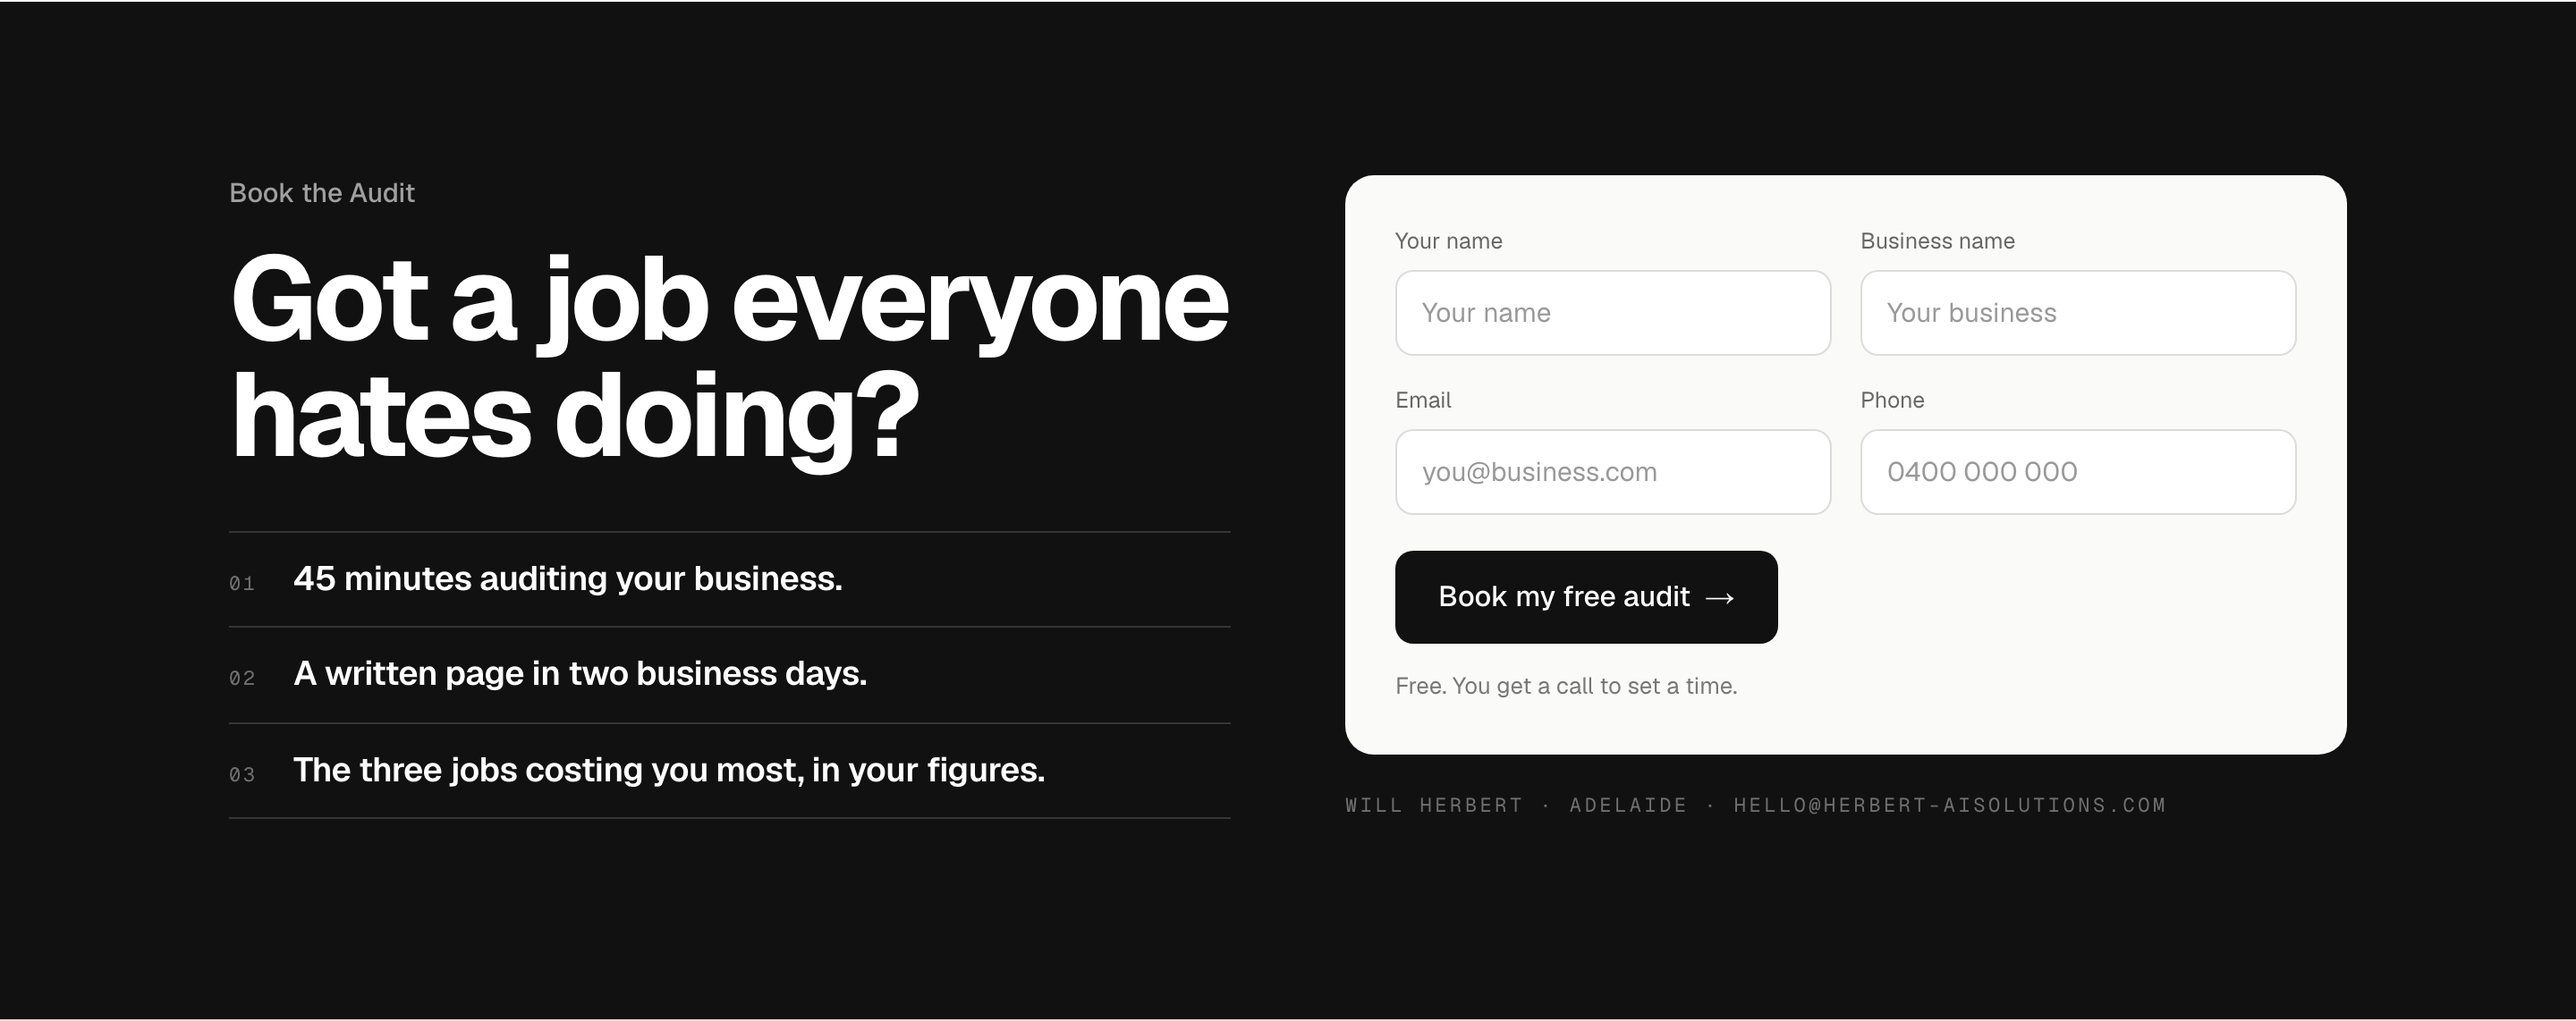
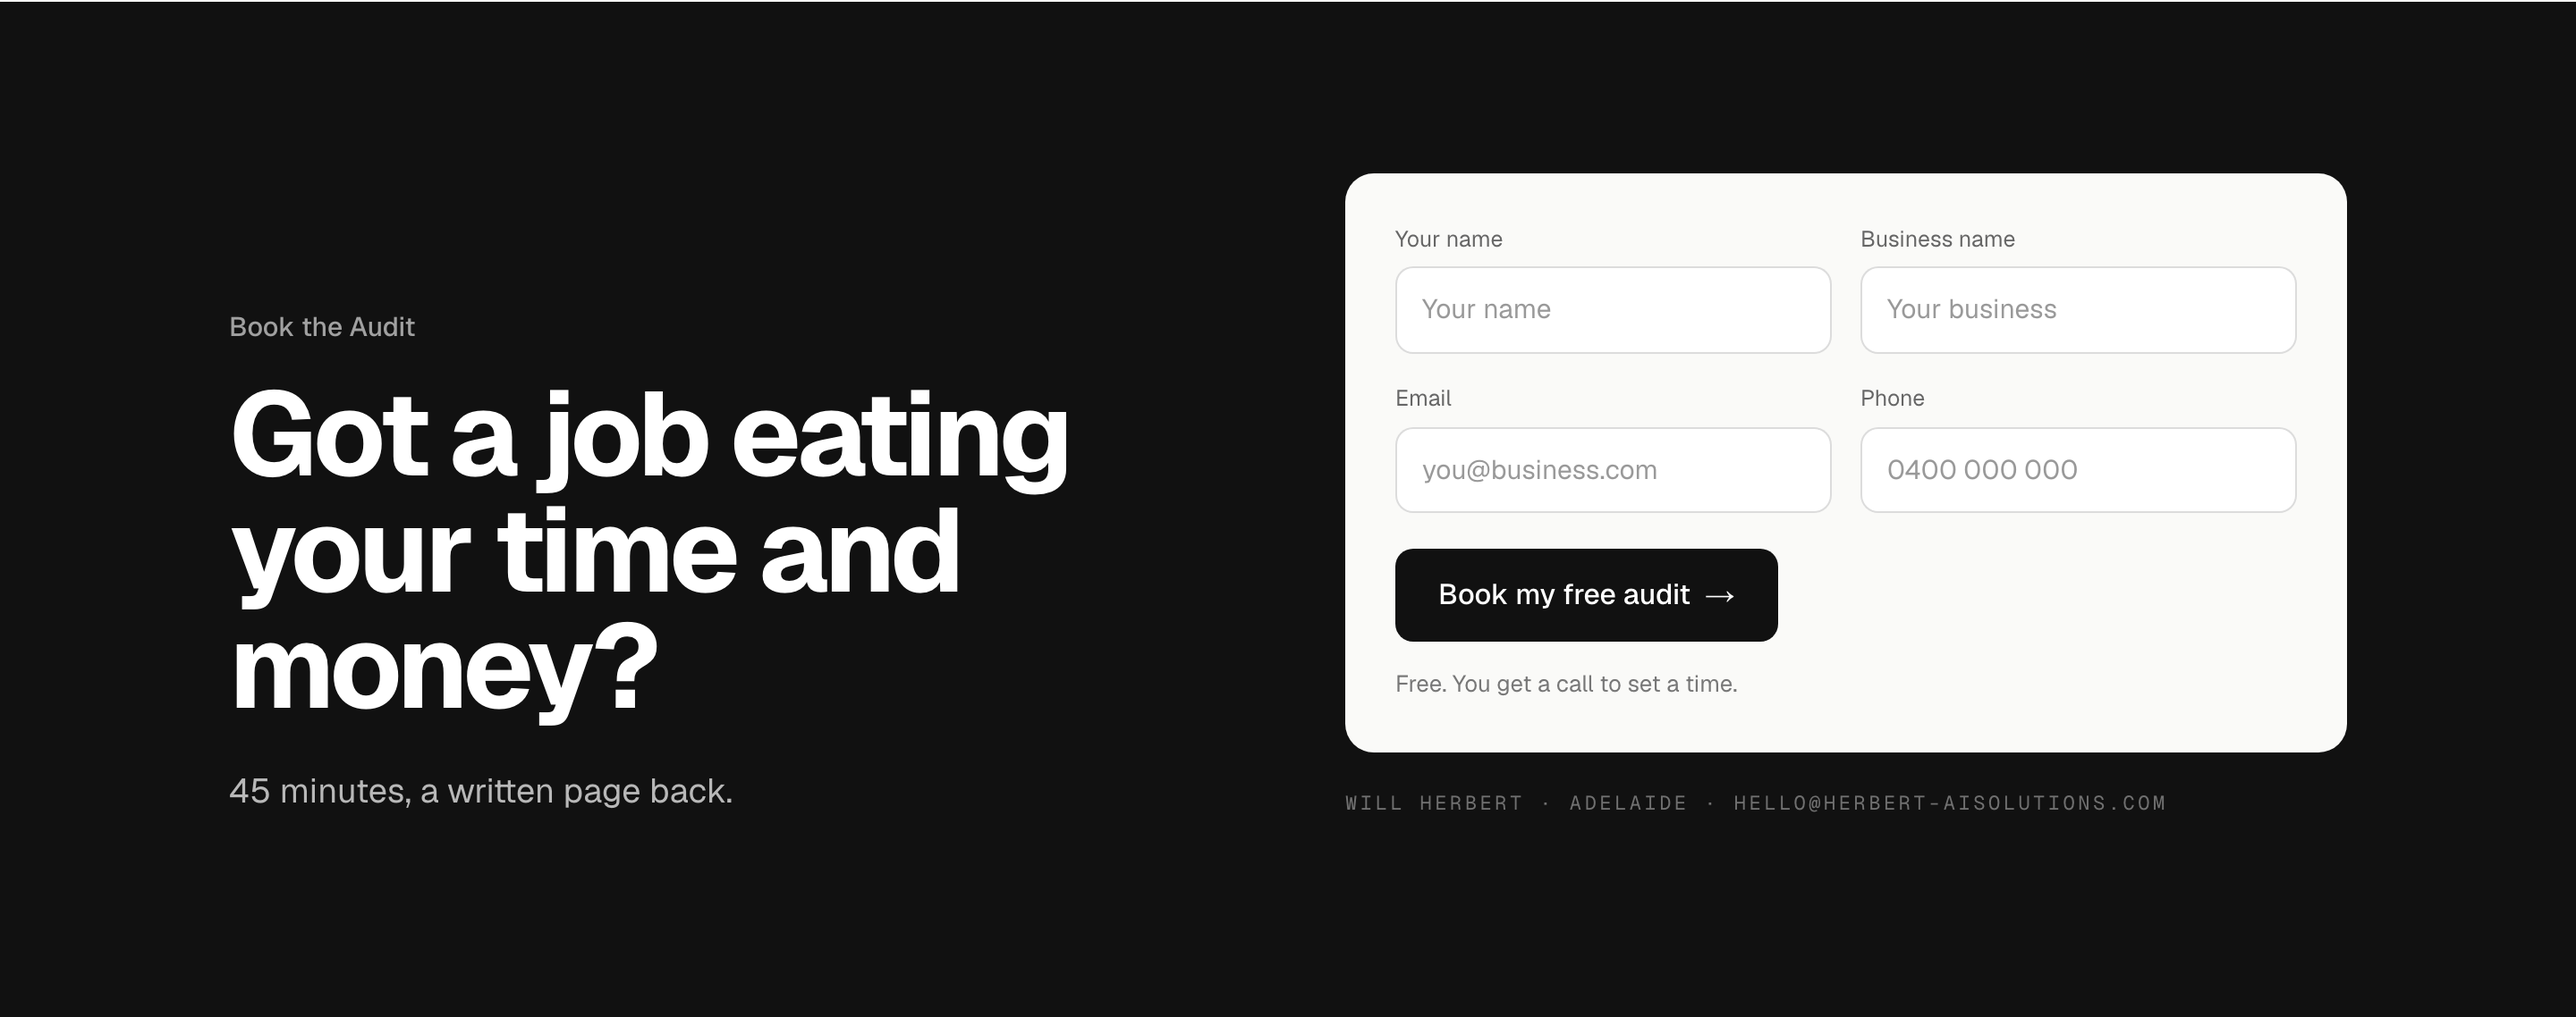
book the audit: will's heading, got a job eating your time and money, and one line in place of the fact rows

diff --git a/herbertai-website/src/app/page.js b/herbertai-website/src/app/page.js
@@ -110,30 +110,22 @@ function FounderNote() {
 }
 
 // Book the Audit, rebuilt 20 Oct 2026 for the "Runs itself" charter: option 3,
-// the form right here (Will: "3"). The ink band; the heading and the audit's
-// three facts as numbered rows on the left (the same form as the Products
-// story), the booking form on the right, so someone who read the whole page
-// books without loading /pilot. The form is the shared AuditForm, the same one
+// the form right here (Will: "3"). The ink band; the heading and one line on
+// the left (detail 2, Will: "3", no list, since How It Works already gives
+// the audit's facts; the heading is Will's own, 20 Oct 2026), the booking form on the right, so someone who read the
+// whole page books without loading /pilot. The form is the shared AuditForm, the same one
 // /pilot#book uses. Options 1 and 2 are drawn in
 // docs/design/design-pass-site-2026-10-19-audit.png.
 function FinalCTA() {
-  const facts = RUNGS[0].facts.map((f) => `${f}.`)
   return (
     <section className="bg-[#111] text-white">
       <div className="max-w-[1280px] mx-auto px-6 lg:px-12 pt-24 pb-28 grid lg:grid-cols-2 gap-x-16 gap-y-12 items-end">
         <div className="min-w-0">
           <p className="text-[15px] font-medium text-white/60 mb-4">Book the Audit</p>
           <h2 className="font-bold tracking-[-0.04em] leading-[0.98] max-w-[14ch]" style={{ fontSize: 'clamp(40px, 4.6vw, 68px)' }}>
-            Got a job everyone hates doing?
+            Got a job eating your time and money?
           </h2>
-          <ol className="mt-8 border-b border-white/15">
-            {facts.map((f, i) => (
-              <li key={f} className="flex items-baseline gap-4 py-3 border-t border-white/15">
-                <span aria-hidden className="w-5 shrink-0 font-mono text-[11px] tracking-[0.12em] text-white/40">{String(i + 1).padStart(2, '0')}</span>
-                <span className="text-[19px] font-semibold tracking-[-0.015em]">{f}</span>
-              </li>
-            ))}
-          </ol>
+          <p className="mt-6 text-[19px] leading-[1.45] text-white/70">45 minutes, a written page back.</p>
         </div>
         <div className="min-w-0">
           <div className="rounded-2xl bg-[#FAFAF8] text-[#111] p-6 sm:p-7">

diff --git a/herbertai-website/docs/design/design-pass-site-2026-09.md b/herbertai-website/docs/design/design-pass-site-2026-09.md
@@ -42,7 +42,7 @@ Phase 3, section by section (facts, options, pick, build, details):
 | 4. Operating Systems | [x] | [x] | [x] | [x] | [x] | Value model 15 Oct; details 16 and 17 Oct; phone version on phones |
 | 5. Products | [x] | [x] | [x] | [x] | [x] | Six details, 19 Oct 2026: Will’s line, his story as the facts, the full-product dashboard, In development in place of the note and link, the full-product phone version |
 | 6. Who Builds It | [x] | [x] | [x] | [x] | [x] | Three details, 19 Oct 2026: said flat under Founder, no photo; the link to About and the phone layout kept |
-| 7. Book the Audit | [x] | [x] | [x] | [x] | [~] | Built 20 Oct: the form on the homepage, shared with /pilot; detail 1 of 4 kept (the heading), 2 of 4 (the facts) next |
+| 7. Book the Audit | [x] | [x] | [x] | [x] | [~] | Built 20 Oct: the form on the homepage, shared with /pilot; details 1 and 2 of 4 applied (Will’s heading, one line in place of the facts), 3 and 4 (the form’s words, the phone) next |
 
 ## [~] M4.1 Whole-site decisions (options shown 16 Sep 2026)
 
@@ -1971,4 +1971,16 @@ to "Free." so the call is not said twice). 2 What is on the page: "The three
 jobs eating the most hours.", "What each one costs you a year.", "Which one to
 hand over first." 3 No list: one line, "45 minutes, a written page back."
 Awaiting Will’s pick.
+Will (20 Oct 2026): "3", then, mid-build: "i think maybe we do 'Got a job
+eating your time and money?' instead".
+
+## [x] Book the Audit details, 1 and 2 of 4: the heading and the facts (20 Oct 2026)
+
+Built: the heading is Will’s own, "Got a job eating your time and money?" (the
+question shape he kept, with "eating" from the line test’s fifth line), and
+the fact rows are gone for one line, "45 minutes, a written page back." (How It
+Works already gives the audit’s facts). Verified at 1440, 1280, 375 and 320,
+motion on and off: no overflow, no errors; the section is 569px at 1440. As
+built: `assets-2026-10-19/audit-built-1440.png` and `-375.png`. Next: details
+3 and 4, the form’s words and the phone layout.
 
